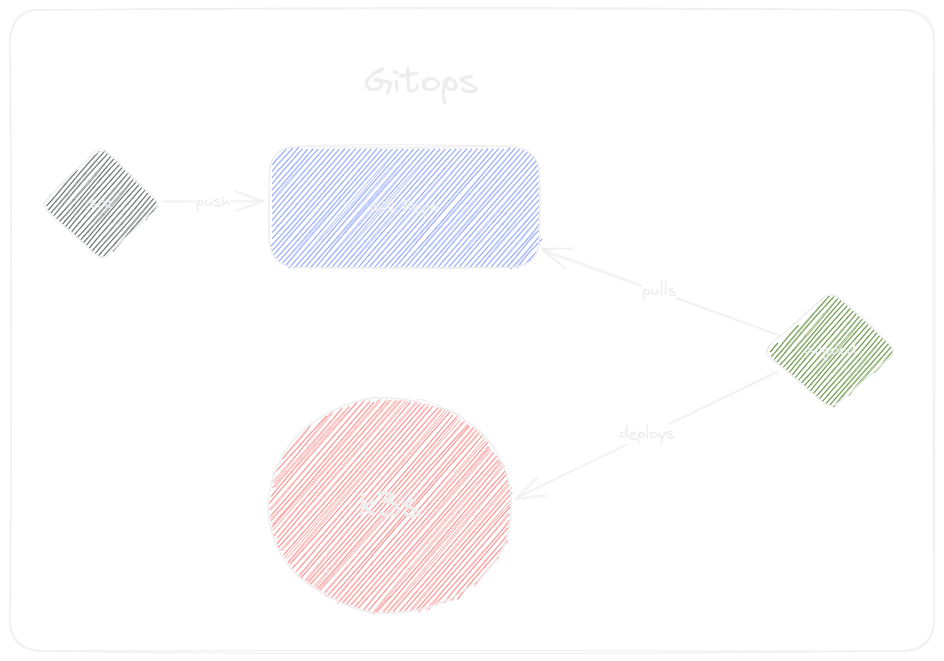
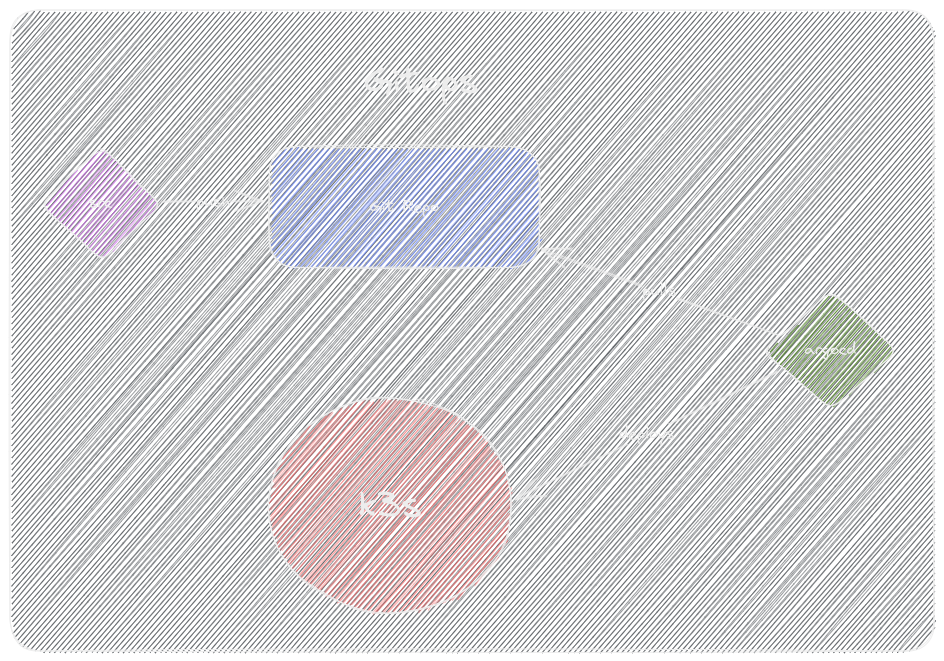
updated docs

diff --git a/docs/Excalidraw/gitops.md b/docs/Excalidraw/gitops.md
@@ -41,7 +41,7 @@ deploys ^ffl88FOX
 			"height": 641,
 			"angle": 0,
 			"strokeColor": "#000000",
-			"backgroundColor": "transparent",
+			"backgroundColor": "#ced4da",
 			"fillStyle": "hachure",
 			"strokeWidth": 1,
 			"strokeStyle": "solid",
@@ -52,11 +52,11 @@ deploys ^ffl88FOX
 				"type": 3
 			},
 			"seed": 1803660349,
-			"version": 132,
-			"versionNonce": 1826299635,
+			"version": 133,
+			"versionNonce": 213481277,
 			"isDeleted": false,
 			"boundElements": null,
-			"updated": 1682533435596,
+			"updated": 1682533569699,
 			"link": null,
 			"locked": false
 		},
@@ -95,79 +95,6 @@ deploys ^ffl88FOX
 			"originalText": "Gitops ",
 			"lineHeight": 1.25,
 			"baseline": 32
-		},
-		{
-			"type": "diamond",
-			"version": 158,
-			"versionNonce": 310751267,
-			"isDeleted": false,
-			"id": "l9nJ_Ggt9ZMg478Jqf7vt",
-			"fillStyle": "hachure",
-			"strokeWidth": 1,
-			"strokeStyle": "solid",
-			"roughness": 1,
-			"opacity": 100,
-			"angle": 0,
-			"x": -393.41666666666674,
-			"y": -305.1785714285714,
-			"strokeColor": "#000000",
-			"backgroundColor": "#ced4da",
-			"width": 120,
-			"height": 114,
-			"seed": 1959401443,
-			"groupIds": [],
-			"roundness": {
-				"type": 2
-			},
-			"boundElements": [
-				{
-					"type": "text",
-					"id": "lnbNMS6v"
-				},
-				{
-					"id": "jeb5vtgqfgV7qZcL64plT",
-					"type": "arrow"
-				}
-			],
-			"updated": 1682527880096,
-			"link": null,
-			"locked": false
-		},
-		{
-			"type": "text",
-			"version": 123,
-			"versionNonce": 461797677,
-			"isDeleted": false,
-			"id": "lnbNMS6v",
-			"fillStyle": "hachure",
-			"strokeWidth": 1,
-			"strokeStyle": "solid",
-			"roughness": 1,
-			"opacity": 100,
-			"angle": 0,
-			"x": -345.21669260660815,
-			"y": -258.1785714285714,
-			"strokeColor": "#000000",
-			"backgroundColor": "transparent",
-			"width": 23.600051879882812,
-			"height": 20,
-			"seed": 1893582275,
-			"groupIds": [],
-			"roundness": null,
-			"boundElements": [],
-			"updated": 1682527756197,
-			"link": null,
-			"locked": false,
-			"fontSize": 16,
-			"fontFamily": 1,
-			"text": "src",
-			"rawText": "src",
-			"textAlign": "center",
-			"verticalAlign": "middle",
-			"containerId": "l9nJ_Ggt9ZMg478Jqf7vt",
-			"originalText": "src",
-			"lineHeight": 1.25,
-			"baseline": 14
 		},
 		{
 			"type": "rectangle",
@@ -671,13 +598,122 @@ deploys ^ffl88FOX
 			"originalText": "deploys",
 			"lineHeight": 1.25,
 			"baseline": 14
+		},
+		{
+			"type": "diamond",
+			"version": 160,
+			"versionNonce": 1614020179,
+			"isDeleted": false,
+			"id": "l9nJ_Ggt9ZMg478Jqf7vt",
+			"fillStyle": "hachure",
+			"strokeWidth": 1,
+			"strokeStyle": "solid",
+			"roughness": 1,
+			"opacity": 100,
+			"angle": 0,
+			"x": -393.41666666666674,
+			"y": -305.1785714285714,
+			"strokeColor": "#000000",
+			"backgroundColor": "#be4bdb",
+			"width": 120,
+			"height": 114,
+			"seed": 1959401443,
+			"groupIds": [],
+			"roundness": {
+				"type": 2
+			},
+			"boundElements": [
+				{
+					"type": "text",
+					"id": "lnbNMS6v"
+				},
+				{
+					"id": "jeb5vtgqfgV7qZcL64plT",
+					"type": "arrow"
+				}
+			],
+			"updated": 1682533587504,
+			"link": null,
+			"locked": false
+		},
+		{
+			"type": "text",
+			"version": 124,
+			"versionNonce": 1808794717,
+			"isDeleted": false,
+			"id": "lnbNMS6v",
+			"fillStyle": "hachure",
+			"strokeWidth": 1,
+			"strokeStyle": "solid",
+			"roughness": 1,
+			"opacity": 100,
+			"angle": 0,
+			"x": -345.21669260660815,
+			"y": -258.1785714285714,
+			"strokeColor": "#000000",
+			"backgroundColor": "transparent",
+			"width": 23.600051879882812,
+			"height": 20,
+			"seed": 1893582275,
+			"groupIds": [],
+			"roundness": null,
+			"boundElements": [],
+			"updated": 1682533587504,
+			"link": null,
+			"locked": false,
+			"fontSize": 16,
+			"fontFamily": 1,
+			"text": "src",
+			"rawText": "src",
+			"textAlign": "center",
+			"verticalAlign": "middle",
+			"containerId": "l9nJ_Ggt9ZMg478Jqf7vt",
+			"originalText": "src",
+			"lineHeight": 1.25,
+			"baseline": 14
+		},
+		{
+			"id": "UP3qRjiD",
+			"type": "text",
+			"x": -325.075569584724,
+			"y": -31.583589899507842,
+			"width": 8.000015258789062,
+			"height": 20,
+			"angle": 0,
+			"strokeColor": "#000000",
+			"backgroundColor": "transparent",
+			"fillStyle": "hachure",
+			"strokeWidth": 1,
+			"strokeStyle": "solid",
+			"roughness": 1,
+			"opacity": 100,
+			"groupIds": [],
+			"roundness": null,
+			"seed": 747647613,
+			"version": 2,
+			"versionNonce": 1235222483,
+			"isDeleted": true,
+			"boundElements": null,
+			"updated": 1682533566382,
+			"link": null,
+			"locked": false,
+			"text": "",
+			"rawText": "",
+			"fontSize": 16,
+			"fontFamily": 1,
+			"textAlign": "left",
+			"verticalAlign": "top",
+			"baseline": 14,
+			"containerId": null,
+			"originalText": "",
+			"lineHeight": 1.25
 		}
 	],
 	"appState": {
 		"theme": "dark",
 		"viewBackgroundColor": "#ffffff",
 		"currentItemStrokeColor": "#000000",
-		"currentItemBackgroundColor": "transparent",
+		"currentItemBackgroundColor": "#be4bdb",
 		"currentItemFillStyle": "hachure",
 		"currentItemStrokeWidth": 1,
 		"currentItemStrokeStyle": "solid",
